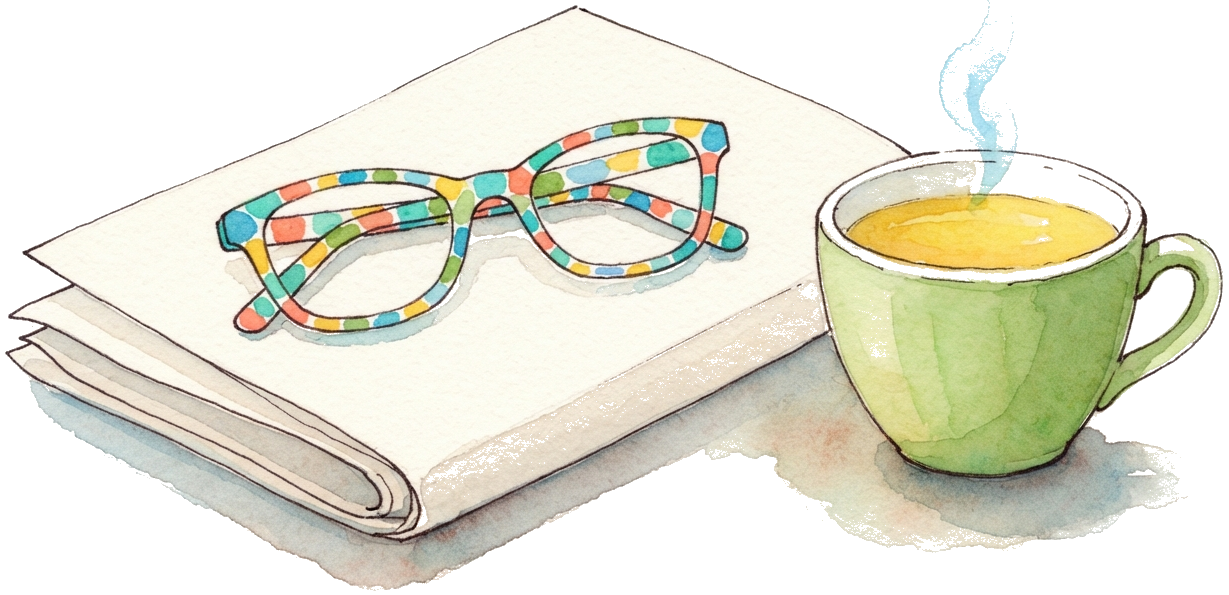
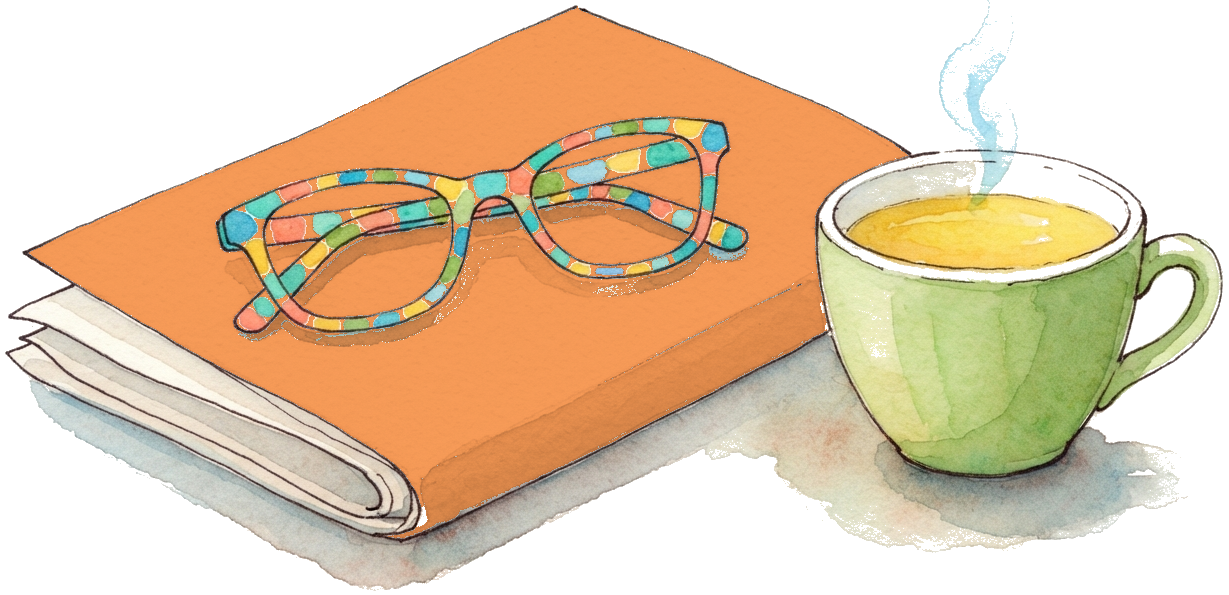
feat(landing): oranzova deska knihy v prehled-pro-rodice
Zadani: dat knize vyraznou barvu. Zvolena znackova oranzova #F97316 na
70 % - je doplnkova k matove karte, takze nejvic vynikne, a ladi s
oranzovym cislem 3 na karte i s logem.

Obarveno nasobenim pres jas, takze zustava akvarelova textura i
stinovani desky. Plna sytost uz pusobila jako plocha z vektoru.

Klicova cast je zaplneni der: bez nej zustala skla bryli a bile halo
kolem obroucek neobarvene. Co je uzavrene uvnitr vybrane plochy, patri
k ni taky; barevne obroucky, inkoust, hrnek ani bile stranky se
nedotknou, protoze neprojdou testem na papir. Zaroven tim zmizely
drobne pruhledne tecky na predni hrane desky.

Nastroj ulozen jako scripts/tint-illustration.ps1.

Changed region(s): [[0.0309, 0.0, 0.7421, 0.9076]]

diff --git a/PROJECT_STATUS.md b/PROJECT_STATUS.md
@@ -156,6 +156,8 @@ src/
 - 🔧 Nástroj uložen jako `scripts/fix-landing-alpha.ps1` (`-ScanOnly` vypíše uzavřené kapsy s id/bbox, `-ClearIds` je zprůhlední, `-FillSeeds` naopak vylije zpět, `-Preview` složí náhled na barvě karty).
 - ✅ **Zbývajících 13 ilustrací prověřeno a je v pořádku** — složeny na skutečné barvy svých karet a projity. Postavu z nich má jedině `diktat` a ta je poškozená zanedbatelně (727 px). Ostatní jsou objekty (štít, slunce, kompas, batoh, kostky, lístky, květináč, graf, knihy, terč, sešit, koláč); jejich nižší alfa je měkký akvarelový okraj, ne vada — plné zkrytí by ho zbytečně ztvrdilo. **Nic dalšího se opravovat nebude.**
 - ⚠ Pozor při psaní pomocných PowerShell skriptů: proměnné **nerozlišují velikost písmen**, takže `$w` v cyklu přepíše `$W`. Chvíli mě to mátlo u rozměrů kontaktního listu.
+- 🎨 **Deska knihy v `prehled-pro-rodice` přebarvena na značkovou oranžovou #F97316 na 70 %** (zadání: „dej té knížce nějakou výraznou barvu"). Oranžová je doplňková k mátové kartě, takže nejvíc vynikne, a ladí s oranžovým číslem 3 na kartě i s logem. Obarvení jde **násobením přes jas**, takže zůstává akvarelová textura i stínování — plná sytota už působila jako plocha z vektoru.
+- 🔧 Nástroj `scripts/tint-illustration.ps1`. Klíčová část je **zaplnění děr**: bez něj zůstala skla brýlí a bílé haló kolem obrouček neobarvené (uživatel to hned viděl — „a brýle mají bílé pozadí"). Co je uzavřené uvnitř vybrané plochy, patří k ní taky; barevné obroučky, inkoust, hrnek ani bílé stránky se nedotknou, protože neprojdou testem na papír. Vedlejším ziskem zmizely i drobné průhledné tečky na přední hraně desky, které byly na bílé neviditelné a proti oranžové vylezly.
 - ℹ Přidán lokální `.claude/launch.json` (dev server `npm run dev`, port 8080) — je v `.gitignore`, necommituje se.
 
 ### Session 2026-08-31 (pokr. 7) — Wave B, 19. dávka (4 témata, vše g3): 133 → 109 nálezů:
